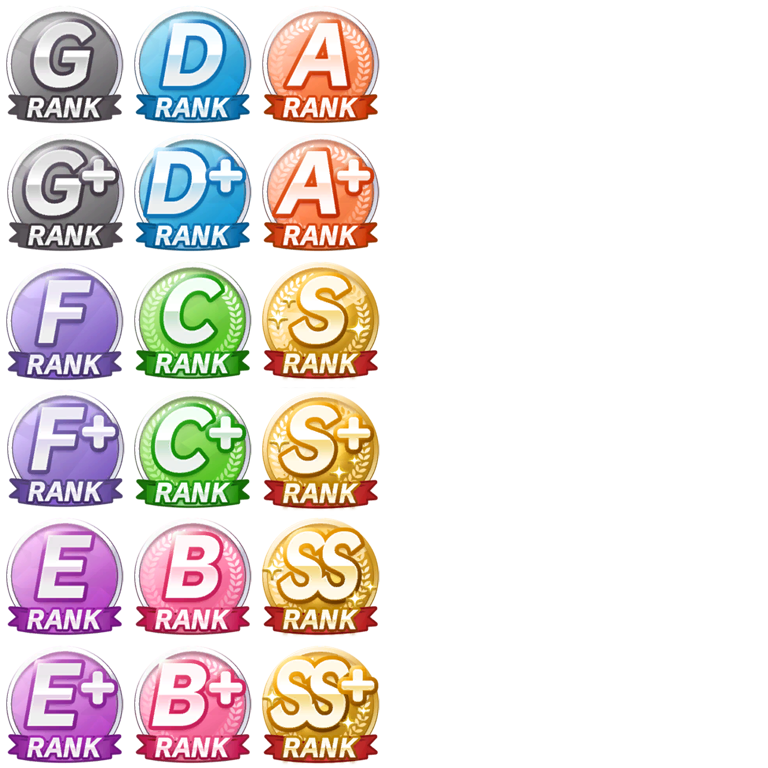
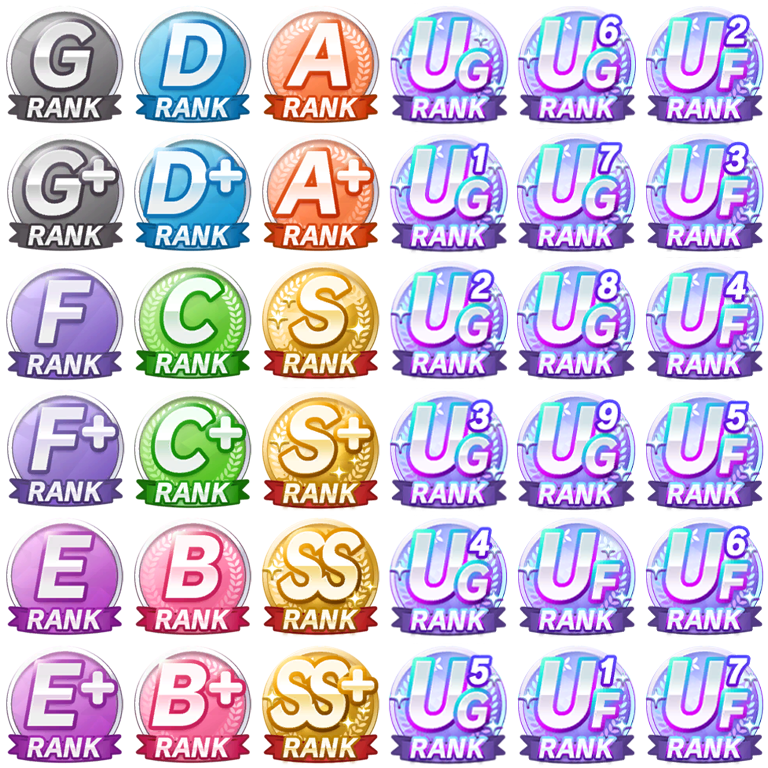
Added more ranks to the optimizer
how tf someone already hit UG in aoharu

Changed region(s): [[0.5, 0.0, 1.0, 1.0]]

diff --git a/optimizer.js b/optimizer.js
@@ -302,7 +302,25 @@
     { threshold: 17500, label: 'S+', sprite: { col: 2, row: 3 } },
     { threshold: 19200, label: 'SS', sprite: { col: 2, row: 4 } },
     { threshold: 19600, label: 'SS+', sprite: { col: 2, row: 5 } },
-    { threshold: Infinity, label: 'SS+', sprite: { col: 2, row: 5 } },
+    { threshold: 20000, label: 'UG', sprite: { col: 3, row: 0 } },
+    { threshold: 20400, label: 'UG1', sprite: { col: 3, row: 1 } },
+    { threshold: 20800, label: 'UG2', sprite: { col: 3, row: 2 } },
+    { threshold: 21200, label: 'UG3', sprite: { col: 3, row: 3 } },
+    { threshold: 21600, label: 'UG4', sprite: { col: 3, row: 4 } },
+    { threshold: 22100, label: 'UG5', sprite: { col: 3, row: 5 } },
+    { threshold: 22500, label: 'UG6', sprite: { col: 4, row: 0 } },
+    { threshold: 23000, label: 'UG7', sprite: { col: 4, row: 1 } },
+    { threshold: 23400, label: 'UG8', sprite: { col: 4, row: 2 } },
+    { threshold: 23900, label: 'UG9', sprite: { col: 4, row: 3 } },
+    { threshold: 24300, label: 'UF', sprite: { col: 4, row: 4 } },
+    { threshold: 24800, label: 'UF1', sprite: { col: 4, row: 5 } },
+    { threshold: 25300, label: 'UF2', sprite: { col: 5, row: 0 } },
+    { threshold: 25800, label: 'UF3', sprite: { col: 5, row: 1 } },
+    { threshold: 26300, label: 'UF4', sprite: { col: 5, row: 2 } },
+    { threshold: 26800, label: 'UF5', sprite: { col: 5, row: 3 } },
+    { threshold: 27300, label: 'UF6', sprite: { col: 5, row: 4 } },
+    { threshold: 27800, label: 'UF7', sprite: { col: 5, row: 5 } },
+    { threshold: Infinity, label: 'UF7', sprite: { col: 5, row: 5 } },
   ];
 
   function getRatingBadge(totalScore) {
